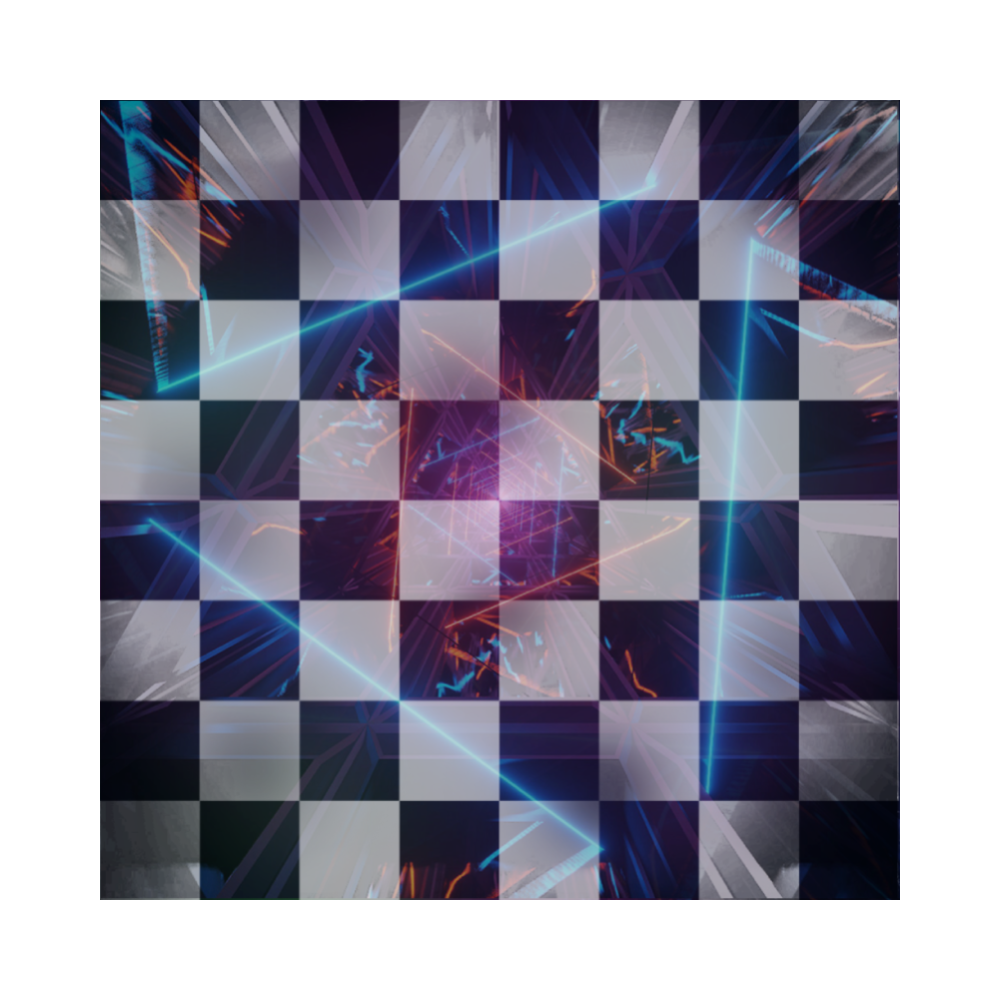
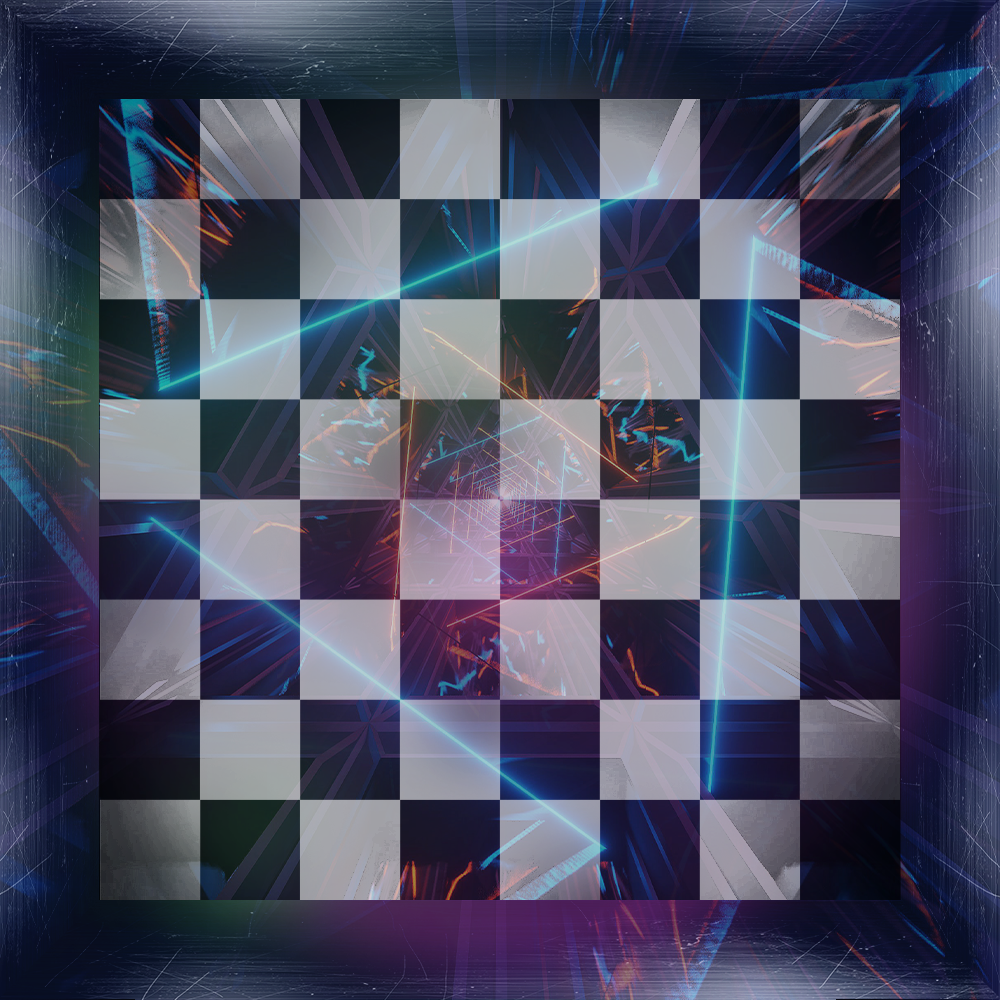
Added BG

diff --git a/tools/loader.py b/tools/loader.py
@@ -114,8 +114,8 @@ class CHESS:
     SAVE_ERR = vsmall.render("ERROR: SaveGame Limit Exeeded", True, WHITE)
 
     TURN = (
-        small.render("White turn", True, BLACK),
-        small.render("Black turn", True, BLACK),
+        small.render("Cabernet turn", True, (255, 102, 204)),
+        small.render("Chardonnay turn", True, (121, 209, 148)   ),
     )
 
     DRAW = small.render("Draw", True, BLACK)
